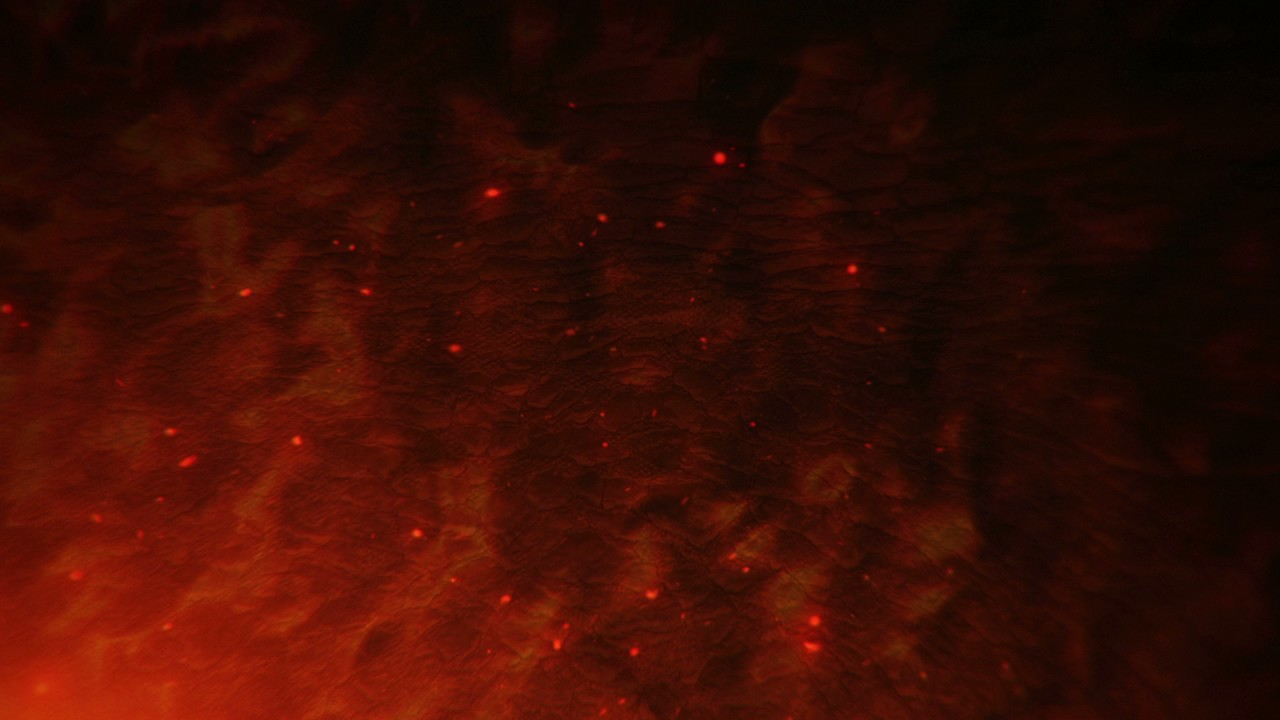
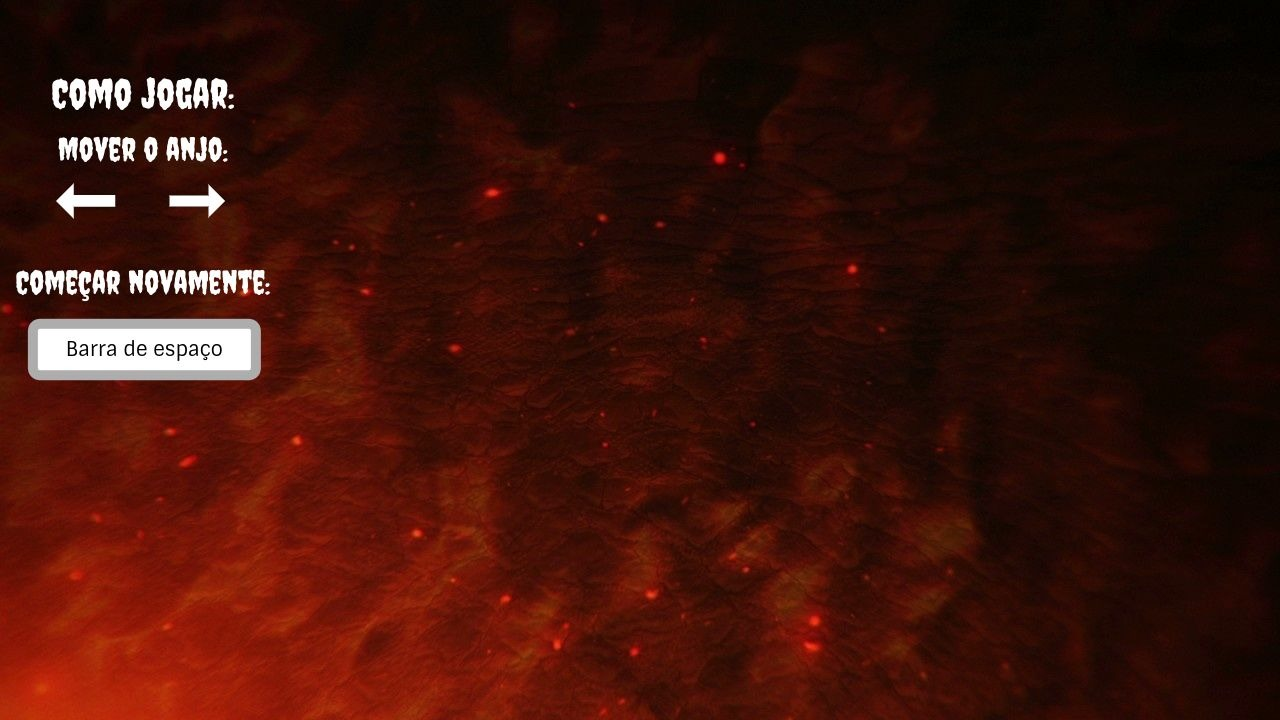
Adicionando background final

Changed region(s): [[0.0, 0.3667, 0.2188, 0.55], [0.0312, 0.1833, 0.1875, 0.3056], [0.0312, 0.0917, 0.1875, 0.1528]]

diff --git a/index.html b/index.html
@@ -1,6 +1,9 @@
 
 <!-- 
-	Desenvolvido por: Henrique Rohamann de Souza
+	Desenvolvido por: 
+	Henrique Rohamann de Souza
+	GitHub: h3nriq
+
 	Arte por: Andrei Vallins 
 -->
 <html lang="pt-br">
@@ -22,6 +25,7 @@
 			border:1px solid #000;
 			margin-left: auto;
 			margin-right: auto;
+			margin-top: 20px;
 		}
 		
 	</style>
